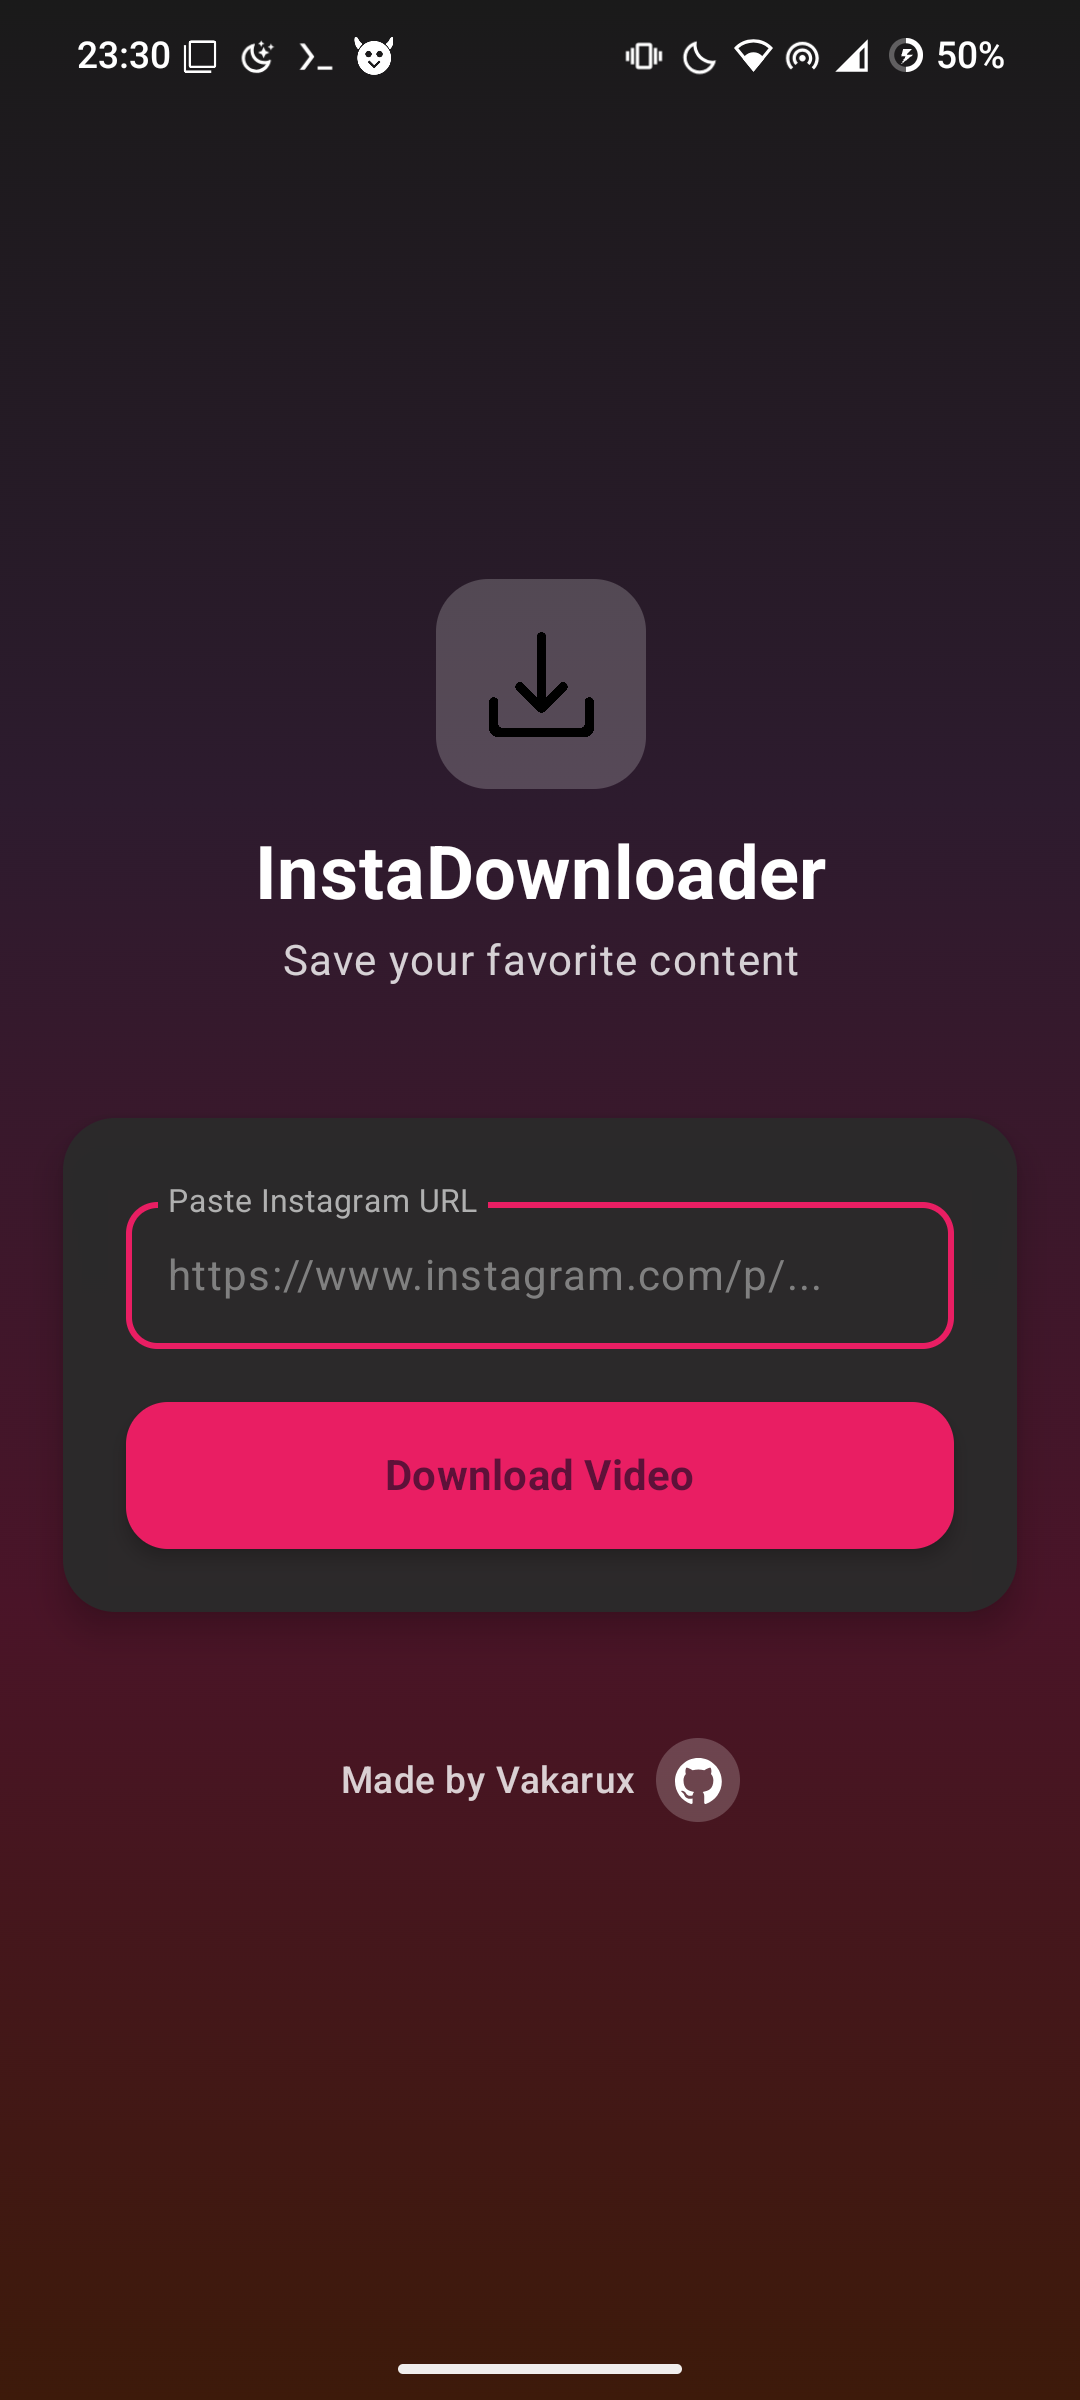
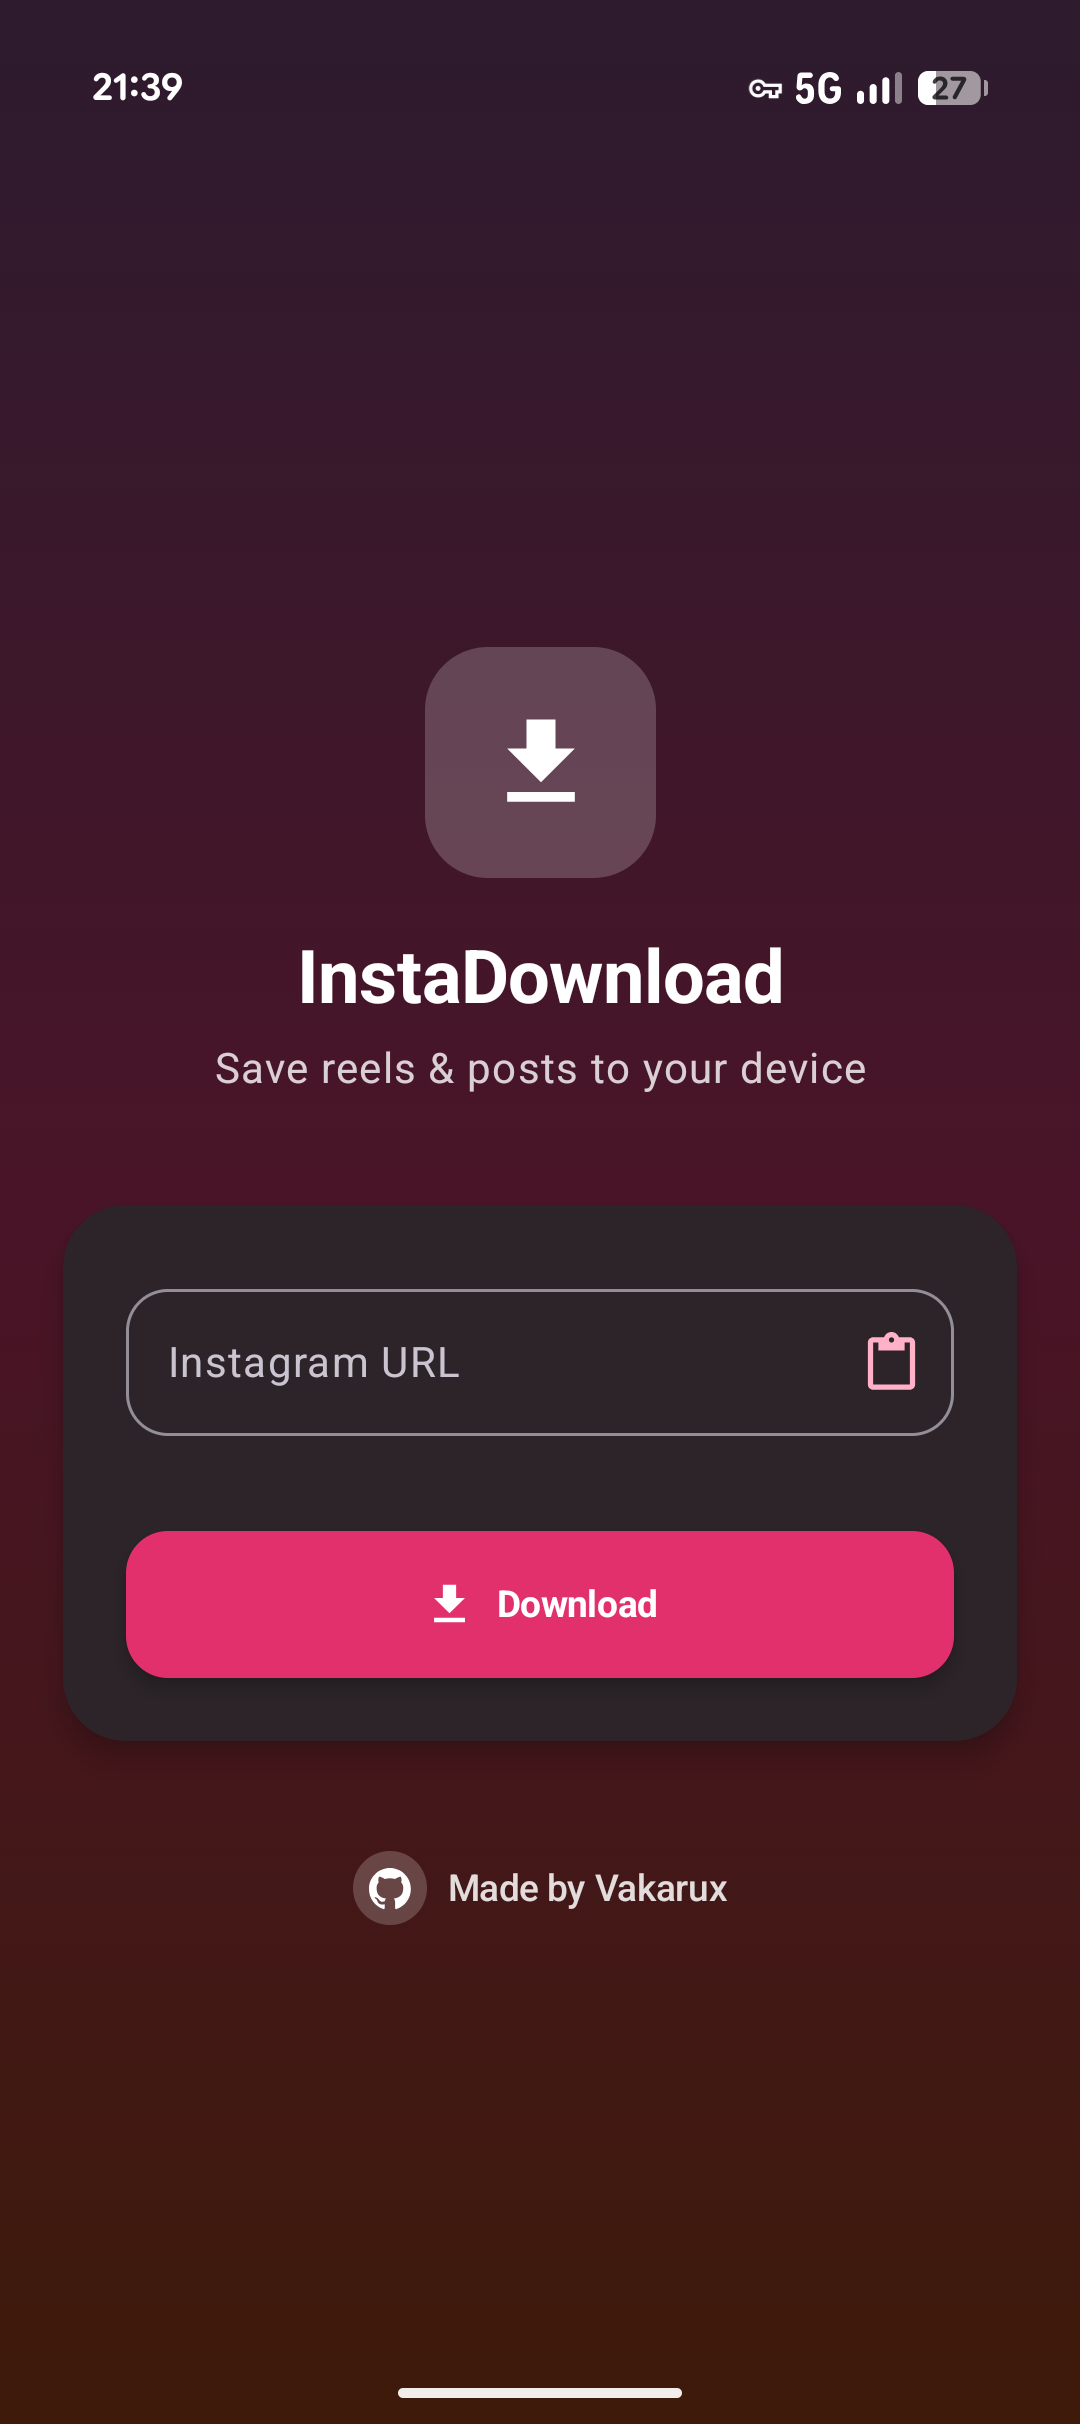
better readme, also fix to dependa

diff --git a/README.md b/README.md
@@ -1,8 +1,8 @@
 # InstaDownload
 
-**InstaDownload** is an Android app for downloading Instagram videos directly to your phone with no ads.  
+An Android only app for downloading Instagram videos directly to your phone.  
 
-
+<p align="center">
 <a href="https://www.star-history.com/?repos=Orang-Studio%2FInstaDownload&type=date&legend=top-left">
  <picture>
    <source media="(prefers-color-scheme: dark)" srcset="https://api.star-history.com/chart?repos=Orang-Studio/InstaDownload&type=date&theme=dark&legend=top-left" />
@@ -10,71 +10,49 @@
    <img alt="Star History Chart" src="https://api.star-history.com/chart?repos=Orang-Studio/InstaDownload&type=date&legend=top-left" />
  </picture>
 </a>
----
+</p>
+
+<p align="center">
+  <a href="https://github.com/Orang-Studio/InstaDownload/actions/workflows/build.yml">
+    <img src="https://github.com/Orang-Studio/InstaDownload/actions/workflows/build.yml/badge.svg" width="190" alt="build status" />
+  </a>
+</p>
 
 ## Features
--  Paste an Instagram post URL and download the video directly.
+-  Paste an Instagram URL and download the video directly.
 -  Everything runs locally on your device.
 -  Videos are saved to your device storage.
 
----
+
 
 ## Screenshots
+<p align="center">
+  <img src="/img/lighttheme.png" width="250" alt="Light theme" />
+  <img src="/img/darktheme.png" width="250" alt="Dark theme" />
+</p>
+<p align="center">Light theme&nbsp;&nbsp;&nbsp;&nbsp;Dark theme</p>
 
-| Light theme | Dark theme |
-|-------------|------------|
-| <img src="/img/lighttheme.png" width="250"/> | <img src="/img/darktheme.png" width="250"/> |
 
----
-
-## Build Instructions
-
-### Prerequisites
-- Android Studio (Giraffe or newer recommended).
-- Gradle 8.x (comes with Android Studio).
-- JDK 17.
-
-### Clone
-```bash
-git clone https://github.com/InterJava-Studio/InstaDownload.git
-cd InstaDownload
-````
-
-### Build APK
-
-```bash
-./gradlew assembleDebug
-```
-
-APK output:
-
-```
-app/build/outputs/apk/debug/app-debug.apk
-```
-
-Install on device:
-
-```bash
-adb install -r app/build/outputs/apk/debug/app-debug.apk
-```
-
----
 
 ## Usage
 
-1. Copy an Instagram post URL (must be a public post or a private one you have access to).
-2. Open **InstaDownload** and paste the link.
-3. Tap **Download**.
-4. Video is saved in your Downloads folder.
+1. Copy an Instagram URL (must be a public post)
+2. Open **InstaDownload** and paste the link
+3. Tap **Download**
+4. Video is saved in your Downloads folder
 
----
+
 
 ## Disclaimer
 
 This project is for **educational purposes**.
 Respect Instagram’s [Terms of Service](https://help.instagram.com/581066165581870) and only download content you have rights to.
 
----
+## Wiki
+
+If you need wiki for some reason then [WIKI](https://github.com/Orang-Studio/InstaDownload/wiki)
+
+
 
 ## License
 
